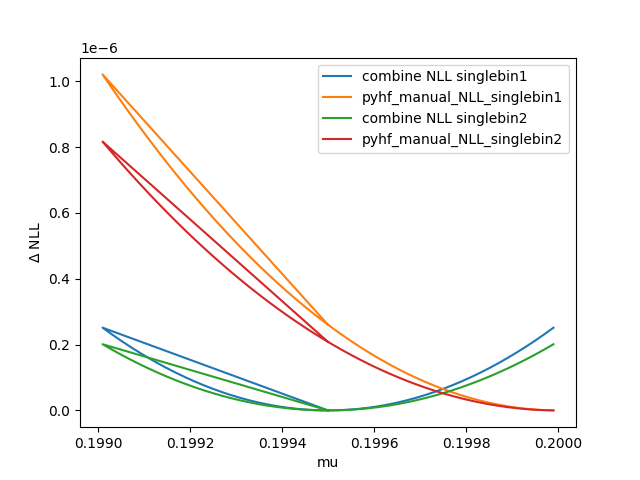
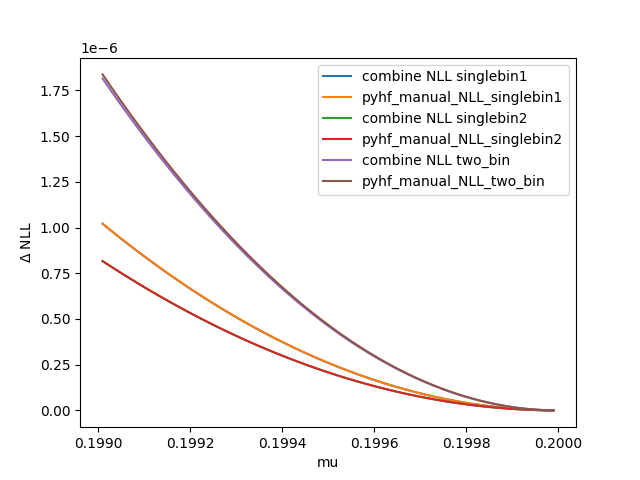
two_bin vs single_bin nll plot, fixes to pyhf->datacard shapes

diff --git a/Converters/Stat_testing/to_pyhf_test.py b/Converters/Stat_testing/to_pyhf_test.py
@@ -94,37 +94,36 @@ plt.savefig('NLLplot')
     
 
 ##NLL plots for fitting, minimization
-with open("two_bin_test.json") as file:
+with open("./multi_vs_single_bin/two_bin_test.json") as file:
     spec2 = json.load(file)
 ws2 = pyhf.Workspace(spec2)
 model2 = ws2.model()
 observations2 = ws2.data(model2)
-with open("single_bin_1_test.json") as file:
+with open("./multi_vs_single_bin/single_bin_1_test.json") as file:
     spec1a = json.load(file)
 ws1a = pyhf.Workspace(spec1a)
 model1a = ws1a.model()
 observations1a = ws1a.data(model1a)
-with open("single_bin_2_test.json") as file:
+with open("./multi_vs_single_bin/single_bin_2_test.json") as file:
     spec1b = json.load(file)
 ws1b = pyhf.Workspace(spec1b)
 model1b = ws1b.model()
 observations1b = ws1b.data(model1b)
 
-print(pyhf.infer.mle.fit(data = observations2, pdf = model2))
-print(pyhf.infer.mle.fit(data = observations1a, pdf = model1a))
-print(pyhf.infer.mle.fit(data = observations1b, pdf = model1b))
 
 
-
-file = uproot.open('higgsCombineTest.MultiDimFit.mH120_1.root')
+file = uproot.open('./multi_vs_single_bin/higgsCombineTest.MultiDimFit.mH120_1.root')
 tree = file['limit']
 branches = tree.arrays()
-plt.plot(branches['r'], branches['deltaNLL'], label  = "combine NLL singlebin1")
+NLL = []
+for nll in branches['deltaNLL'][1:]:
+    NLL.append(nll - min(branches['deltaNLL']))
+plt.plot(branches['r'][1:], NLL, label  = "combine NLL singlebin1")
 file.close()
-print(pyhf.infer.mle.fit(data = observations1a, pdf = model1a))
 
 
-mu_values = branches['r']
+
+mu_values = branches['r'][1:]
 nlls = []
 for mu in mu_values:
     nll = 0
@@ -136,21 +135,22 @@ for mu in mu_values:
 
 nlls = nlls - min(nlls)  # offset to set minimum to zero
 plt.plot(mu_values, nlls, label = "pyhf_manual_NLL_singlebin1")
-plt.xlabel("mu")
-plt.ylabel("$\Delta$ NLL")
-plt.legend()
 
-plt.savefig('NLLplot')
 
-file = uproot.open('higgsCombineTest.MultiDimFit.mH120_2.root')
+
+
+file = uproot.open('./multi_vs_single_bin/higgsCombineTest.MultiDimFit.mH120_2.root')
 tree = file['limit']
 branches = tree.arrays()
-plt.plot(branches['r'], branches['deltaNLL'], label  = "combine NLL singlebin2")
+NLL = []
+for nll in branches['deltaNLL'][1:]:
+    NLL.append(nll - min(branches['deltaNLL']))
+plt.plot(branches['r'][1:], NLL, label  = "combine NLL singlebin2")
 file.close()
-print(pyhf.infer.mle.fit(data = observations1b, pdf = model1b))
 
 
-mu_values = branches['r']
+
+mu_values = branches['r'][1:]
 nlls = []
 for mu in mu_values:
     nll = 0
@@ -162,11 +162,39 @@ for mu in mu_values:
 
 nlls = nlls - min(nlls)  # offset to set minimum to zero
 plt.plot(mu_values, nlls, label = "pyhf_manual_NLL_singlebin2")
+
+
+
+
+file = uproot.open('./multi_vs_single_bin/higgsCombineTest.MultiDimFit.mH120_multi.root')
+tree = file['limit']
+branches = tree.arrays()
+NLL = []
+for nll in branches['deltaNLL'][1:]:
+    NLL.append(nll - min(branches['deltaNLL']))
+plt.plot(branches['r'][1:], NLL, label  = "combine NLL two_bin")
+file.close()
+
+
+
+mu_values = branches['r'][1:]
+nlls = []
+for mu in mu_values:
+    nll = 0
+    rates_per_bin = model2.expected_data(mu, include_auxdata=False)
+    for i, bin_rate in enumerate(rates_per_bin):
+        # build up negative log likelihood as sum over log Poisson likelihoods per bin
+        nll +=  -scipy.stats.poisson.logpmf(observations2[i], bin_rate)
+    nlls.append(nll)
+
+nlls = nlls - min(nlls)  # offset to set minimum to zero
+plt.plot(mu_values, nlls, label = "pyhf_manual_NLL_two_bin")
 plt.xlabel("mu")
 plt.ylabel("$\Delta$ NLL")
 plt.legend()
-
 plt.savefig('NLLplot')
+
+
 
 
 ##YIELDS

diff --git a/Converters/pyhf_convert_to_datacard.py b/Converters/pyhf_convert_to_datacard.py
@@ -59,7 +59,10 @@ def addChannels():
             DC.obs.update({channel["name"]: spec["observations"][idxc]["data"]})
             
         else:
-            DC.obs.update({channel["name"]: -1})
+            data = 0
+            for i in spec["observations"][idxc]["data"]:
+                data = data + spec["observations"][idxc]["data"][i]
+            DC.obs.update({channel["name"]: data})
             h_data = hist.Hist.new.Regular(
                 channel_bins[channel["name"]], 0, channel_bins[channel["name"]]
             ).Weight()
@@ -96,8 +99,11 @@ def addSamples():
             )
             DC.hasShapes = True
             for idxs, sample in enumerate(channel["samples"]):
+                data = 0
+                for i in sample["data"]:
+                    data = data + spec["observations"][idxc]["data"][i]
                 DC.exp[channel["name"]].update(
-                    {sample["name"]: -1}
+                    {sample["name"]: data}
                 )
                 
                 mods = [
@@ -236,13 +242,18 @@ def addSignal():
                         DC.isSignal.update({sample["name"]: True})
                         DC.signals.append(sample["name"])
 
-def addRateParams():   
+def addRateParams():
+    signalMods = []
+    for modifier in modifiers:
+        if modifier[0] == workspace.get_measurement()['config']['poi']:
+            signalMods.append(modifier[0])
+        
     for idxc, channel in enumerate(channels):
         for idxs, sample in enumerate(
             (spec["channels"][idxc]["samples"])
         ):
-            for i, mod in enumerate(spec["channels"][idxc]["samples"][idxs]["modifiers"]): ##normfactor or lumi
-                if "normfactor" in mod["type"] or "lumi" in mod["type"]:
+            if sample["name"] not in DC.signals:
+                for i, mod in enumerate(spec["channels"][idxc]["samples"][idxs]["modifiers"]): ##normfactor or lumi 
                     DC.rateParams.update({channel + "AND" + sample["name"]: []})
                     DC.rateParams[channel + "AND" + sample["name"]].append([[mod["name"], 1, 0], ''])
                         
